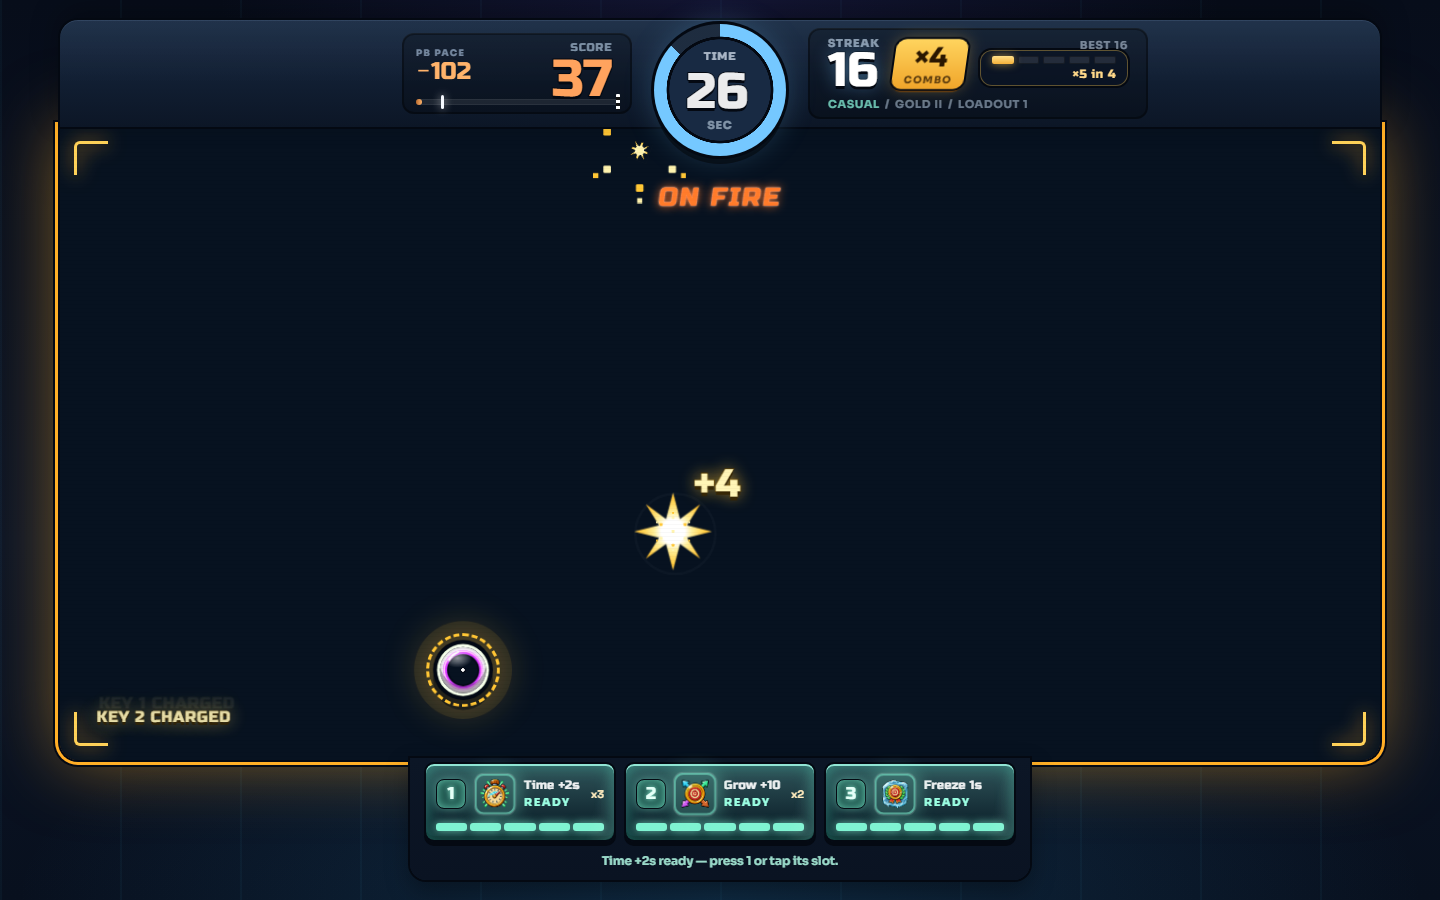
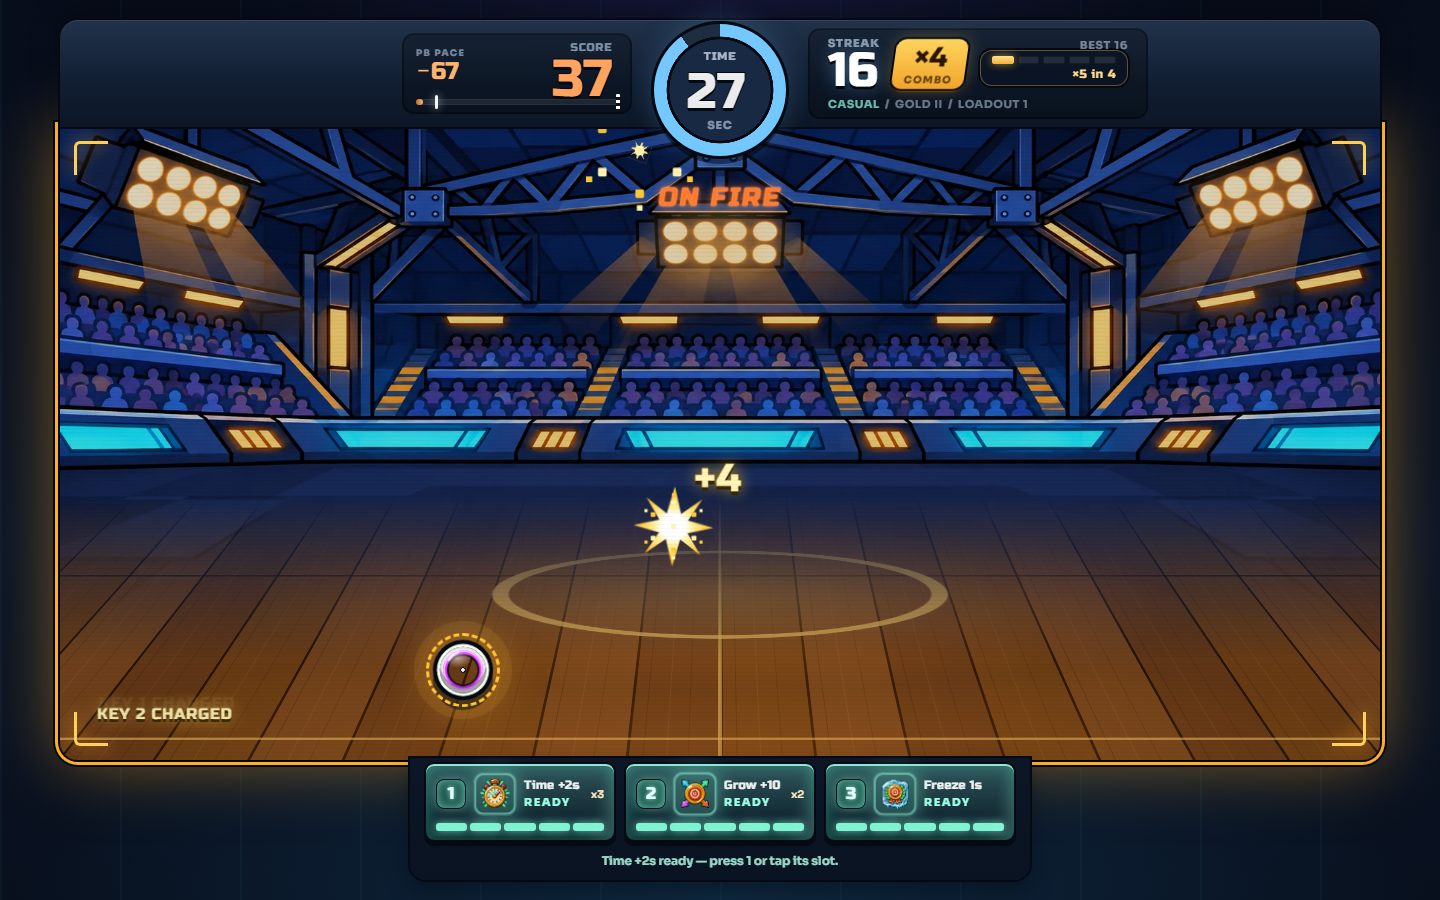
Art rework: soften arena backing to a 15% shade while keeping the stadium visible

diff --git a/src/features/game/components/arena-focus.css b/src/features/game/components/arena-focus.css
@@ -1,9 +1,9 @@
-/* A quiet, opaque playfield keeps scenery separate from aiming and feedback. */
+/* A light shade keeps the stadium visible behind targets and feedback. */
 .arena .arenaGameplayBackdrop {
   position: absolute;
   inset: 0;
   z-index: 0;
-  background: #08121e;
+  background: rgb(0 0 0 / 15%);
   pointer-events: none;
 }
 

diff --git a/docs/ui-polish/game-feel/steps/32-art-rework/inventory.md b/docs/ui-polish/game-feel/steps/32-art-rework/inventory.md
@@ -11,7 +11,7 @@ This pass audits the remaining source against the current 20-screen capture set.
 - Results: generated gold/silver/bronze performance medals retain the original clean-run and accuracy conditions.
 - Promotion: generated division frame and mirrored cannon sprites retain division-dependent decoration and live confetti.
 - Duel woodwork and Shop booth: generated platform and booth scenery sit around the live controls and preview; see the scenery inventory for prompts.
-- Gameplay: a solid dark, non-interactive layer covers the stadium scenery during aiming. Targets, feedback, countdown and HUD remain above it. Verified the target is hit-testable and a click scores.
+- Gameplay: a non-interactive 15% black shade dims the visible stadium during aiming. Targets, feedback, countdown and HUD remain above it. Verified the target is hit-testable and a click scores.
 
 ## Already illustrated
 
@@ -25,6 +25,6 @@ This pass audits the remaining source against the current 20-screen capture set.
 - Brand marks, pass engraving, curved seal lettering, ticket labels, stamps and numbers: typography or established branding.
 - Tiny settings and navigation control symbols, focus rings, panel borders, dividers and progress tracks: functional UI chrome.
 - Live target skins, hit feedback, countdowns, confetti, stadium lighting and theme tint: gameplay or animation layers.
-- The old arena horizon is hidden by the painted stadium styles, and the live playfield now has an opaque backing; generating a replacement for that hidden artwork would not change the interface.
+- The old arena horizon is hidden by the painted stadium styles; generating a replacement for that hidden artwork would not change the interface.
 
 All artwork changes share one Art rework section and one screenshot table in the PR description. Earlier screenshot tables in art follow-up comments are consolidated into links to that section.

diff --git a/docs/ui-polish/game-feel/steps/32-art-rework/changes.md b/docs/ui-polish/game-feel/steps/32-art-rework/changes.md
@@ -1,8 +1,8 @@
-Consolidated Art rework: remaining illustration replacements and opaque gameplay backing
+Consolidated Art rework: remaining illustration replacements and subtle gameplay shading
 
 - Completed the remaining worthwhile illustration replacements with Terra in parallel: Help's 13 scenes, Armory identity emblems, Results performance medals, promotion frame/cannons, Ladder podium, Duel platform and Shop booth. Existing portraits, stadium, crests, achievement detail progression and rarity pedestals remain part of the same rework.
 - Help teaching cues remain live HTML; Results preserve gold/silver/bronze performance conditions. Rank text, controls, selected-build diagrams, chart geometry, gauges and animation stay live.
-- Added the requested solid dark arena backing so scenery cannot interfere with aiming. The backdrop does not intercept input; targets, hit feedback, countdown and HUD remain visible.
+- The arena uses a 15% black shade over the visible stadium, following the user's clarification. The shade does not intercept input; targets, hit feedback, countdown and HUD remain visible.
 - Verified desktop/mobile layout, image loading, Help illustration bounds, target click handling, shop preview selection, Duel replay, and Ladder search. Full-app capture refreshes all 20 screens.
 - Build and targeted component lint passed. Prior unrelated ShopHeroHeader unused-variable findings and the two baseline shop test failures remain documented. No new council rating; i51 Sol 9.37 is the last score.
 - PR presentation: one Art rework section and one baseline-to-current screenshot table. Earlier screenshot comments retain their notes and link to that section.

diff --git a/.claude/skills/clickaway-rsi/SKILL.md b/.claude/skills/clickaway-rsi/SKILL.md
@@ -276,3 +276,5 @@ Build JSON bodies with Python (`json.dump`) and never echo the token. Link the P
 - **Consolidated Art rework (user, 2026-11-12):** all artwork batches share one Art rework section and one baseline-to-current screenshot table in the PR body. This supersedes per-commit art screenshot tables. Keep short commit notes linking to that section, and consolidate old screenshot comments into links while preserving their change notes. update_pr_body.py supports RSI_ART_SHOTS and RSI_ART_SUMMARY; step_comment.py omits its table when RSI_ART_SHOTS is set.
 
 - **Remaining illustration pass and quiet arena (2026-11-12):** completed Help scenes with live teaching cues, Armory identity art, Results performance medals, promotion frame/cannons, Ladder podium, Duel platform and Shop booth. Gameplay has an opaque dark backing below targets/feedback/HUD. Parent checked image bounds and target hit testing; full 20-screen capture passed. One consolidated Art rework section/table replaces prior per-commit screenshot tables. Source audit and intentional live-code exclusions: steps/32-art-rework/inventory.md.
+
+- **Arena shade clarification (user, 2026-11-12):** the gameplay backing is a 15% black shade, not an opaque playfield. Keep the stadium visible with targets and feedback above the shade; it must not intercept input. Refreshed desktop/mobile live-round, Results and Promotion captures.
